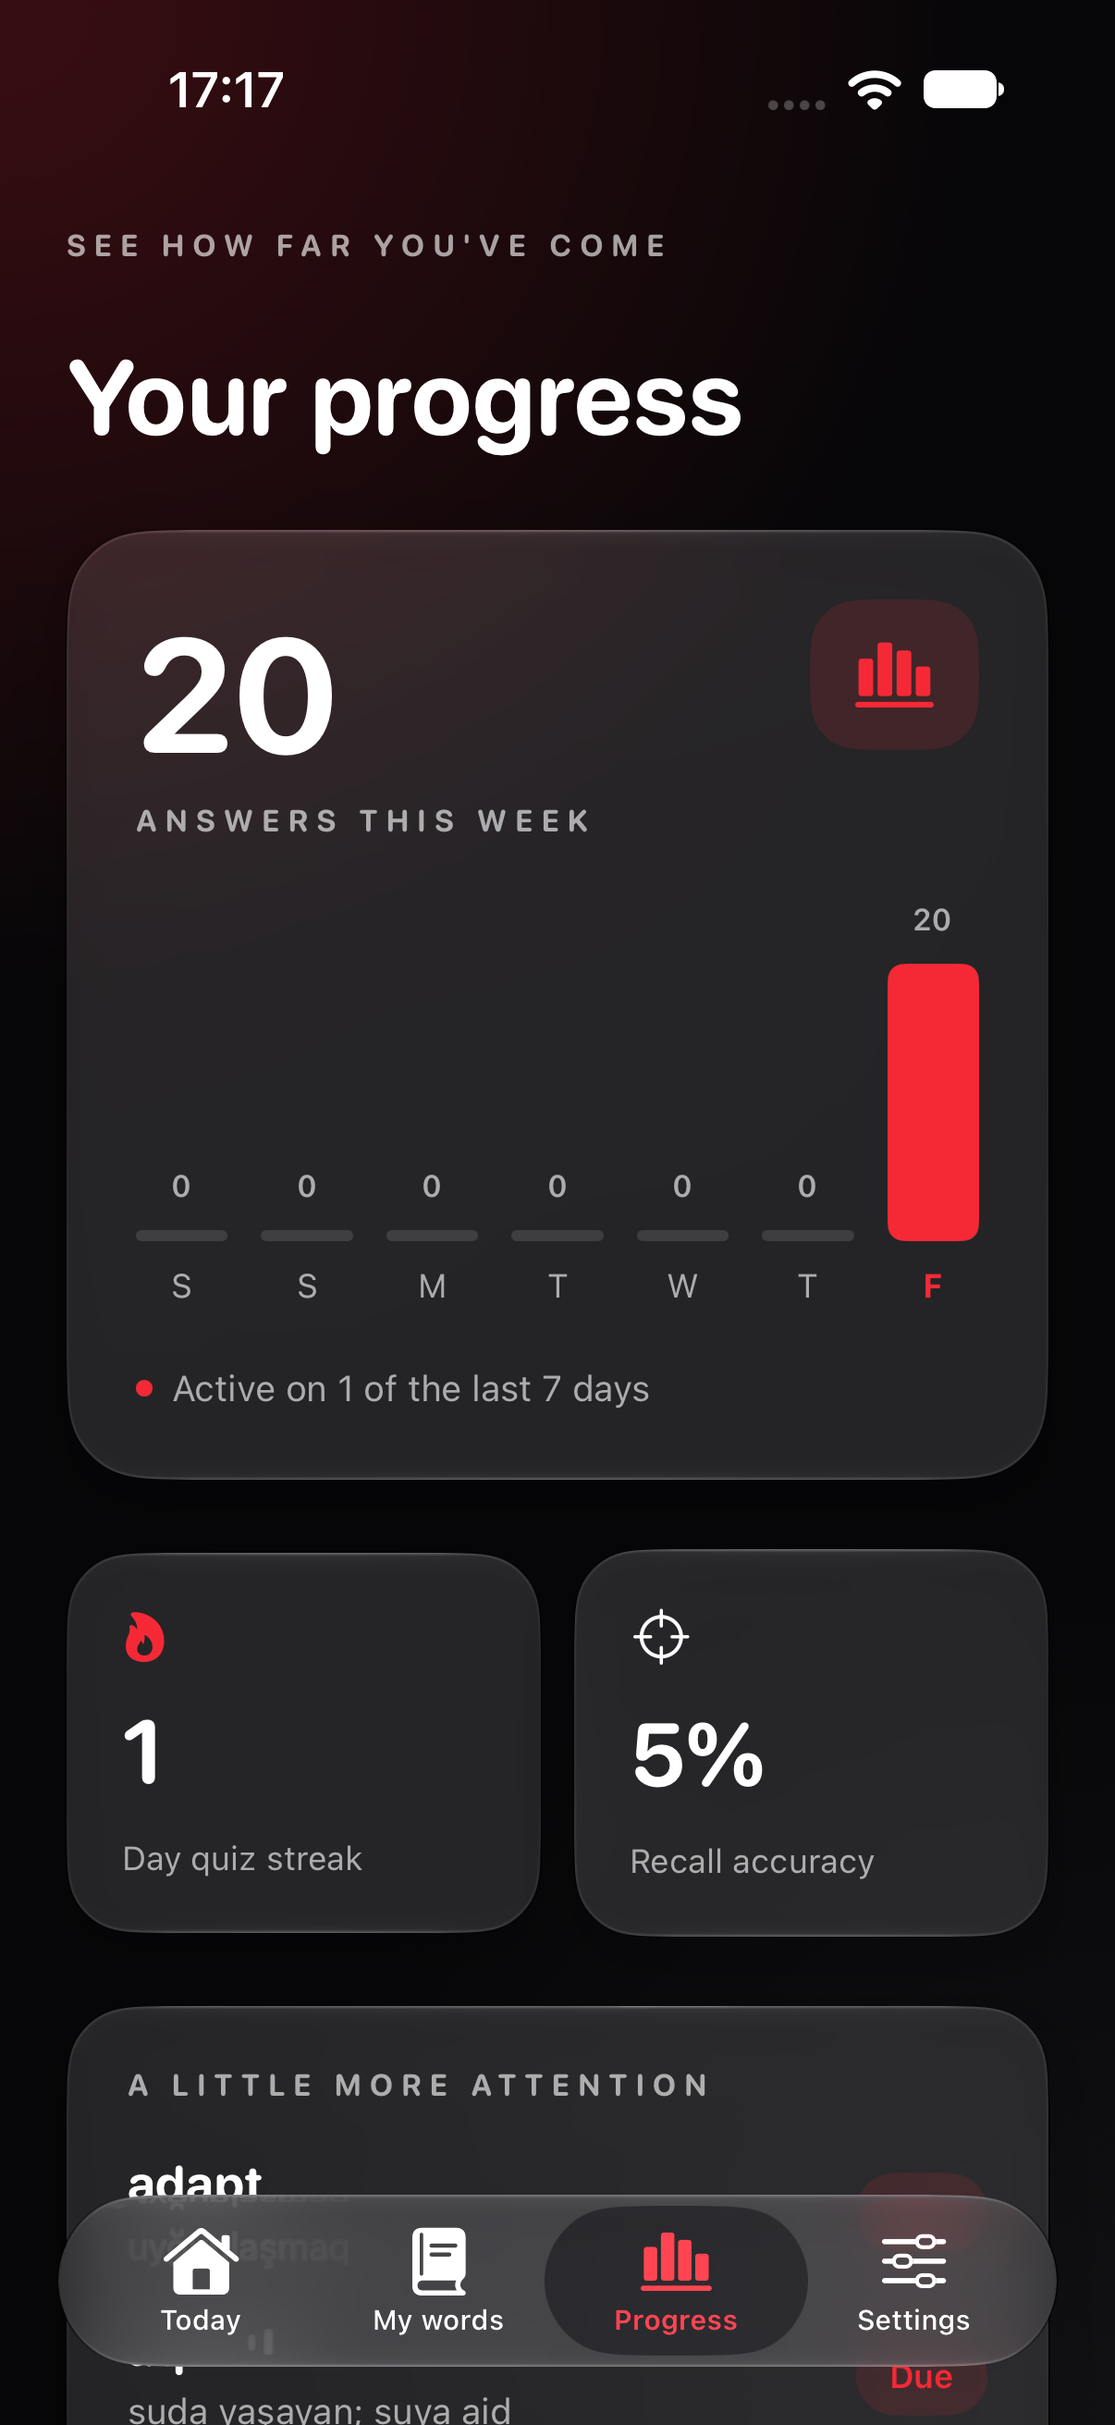
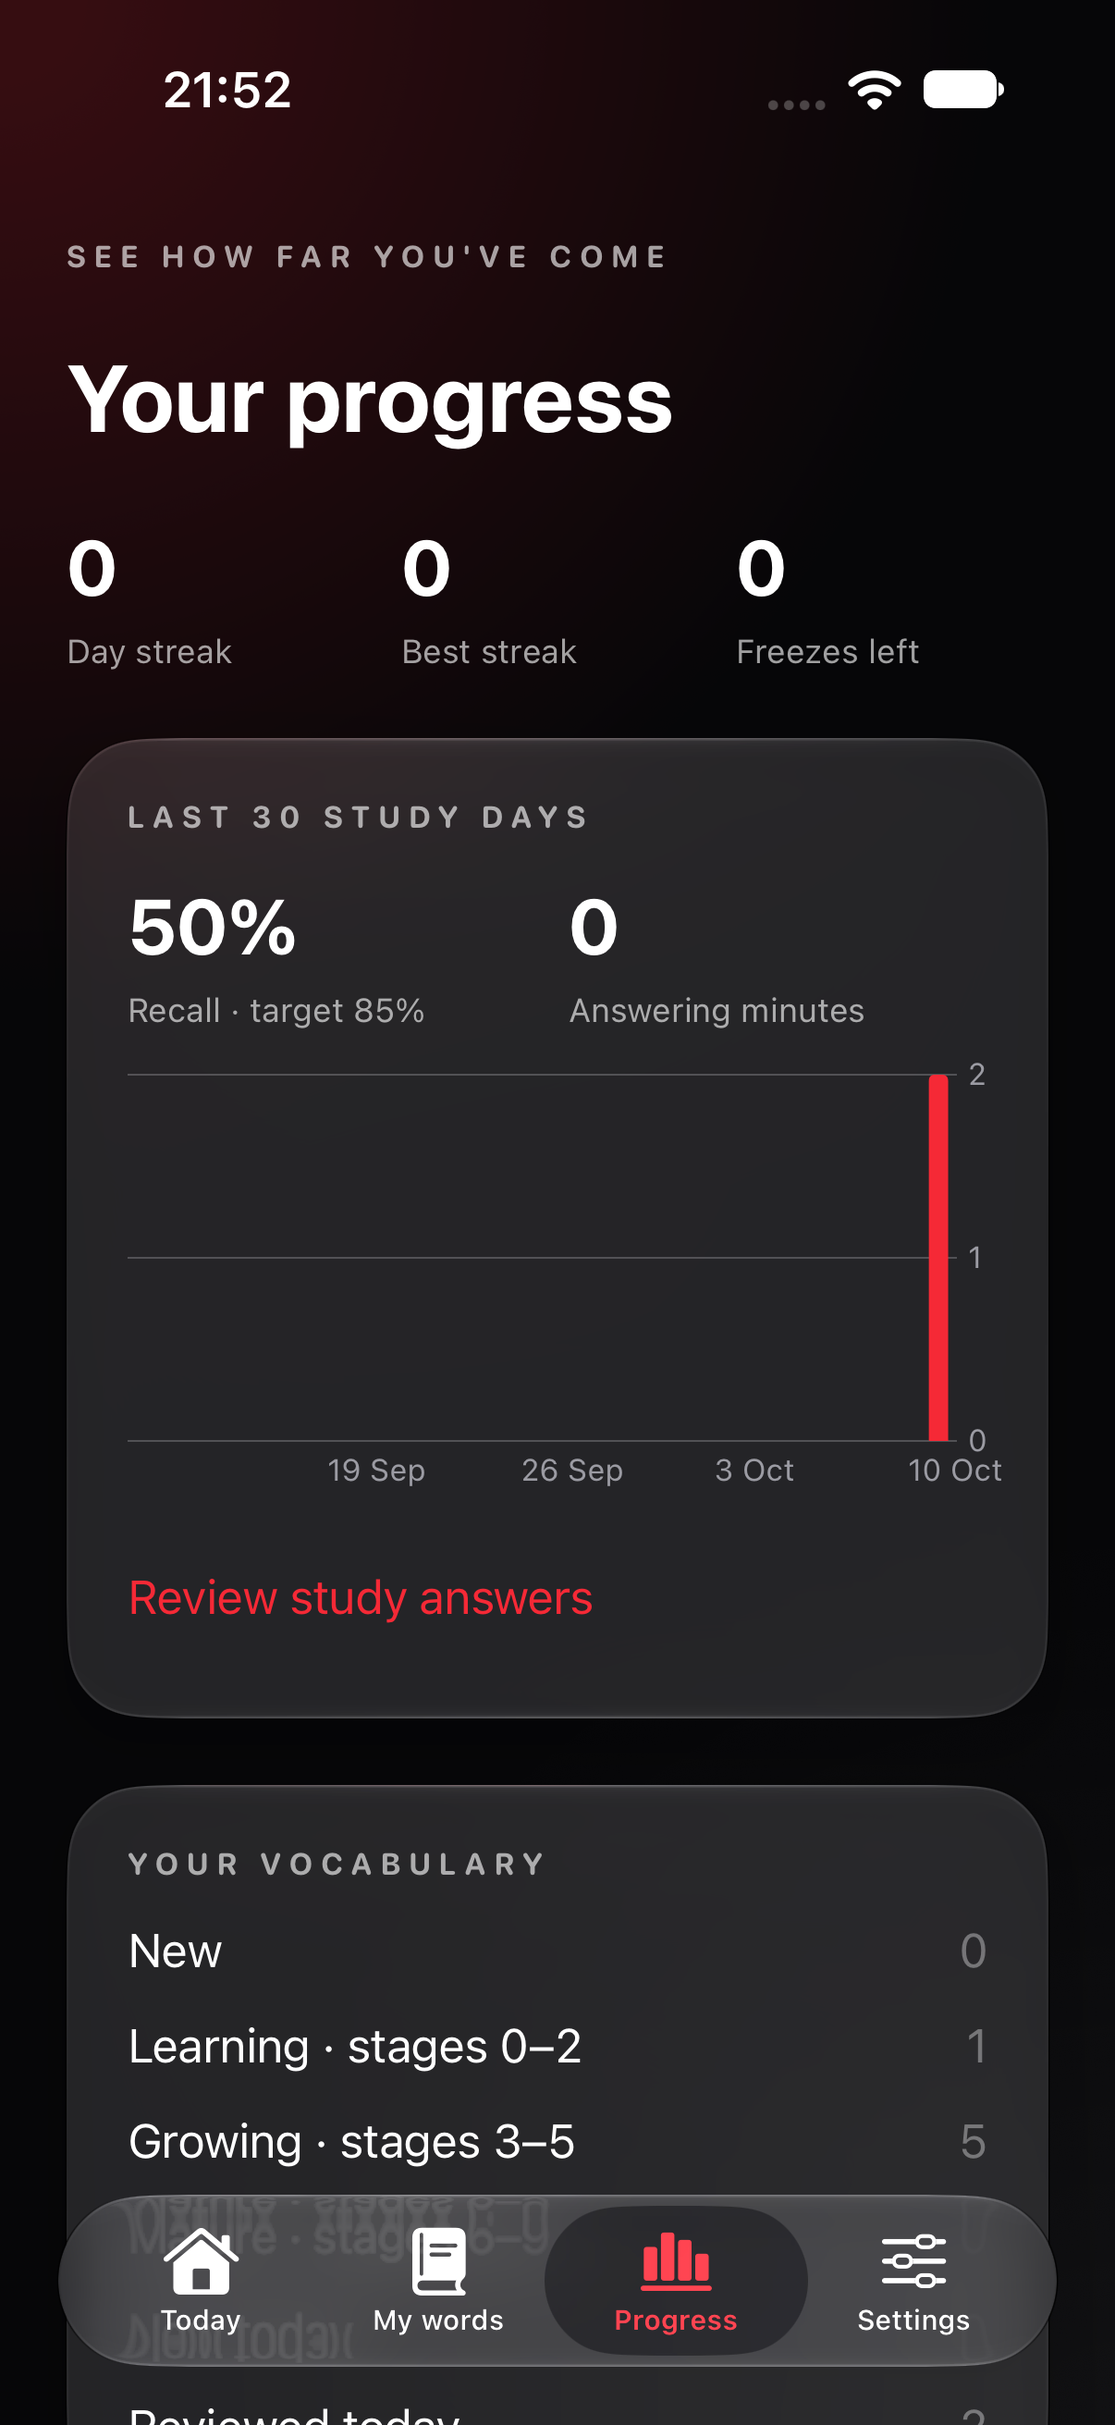
Document version 2.0 with three essential screenshots

diff --git a/WordRevisit/README.md b/WordRevisit/README.md
@@ -1,59 +1,96 @@
 # WordRevisit
 
-An offline iPhone vocabulary app for practising English and Azerbaijani with short, focused quizzes. The first launch contains 59 English words and their Azerbaijani translations. Words, results, and reminder settings stay on the device.
-
-Current version: **1.2.0**. Add your own example sentences, review every answer, retry missed words, and follow your progress with spaced reviews. Existing words and quiz history are preserved when updating the same installation.
+A native, offline iPhone app for learning English with Azerbaijani translations. **Version 2.0.0**, iOS **18+**, SwiftUI. No account, advertisements, analytics, backend, or network calls. The first installation includes the original 59-word collection.
 
 ## Screenshots
 
-Captured from version 1.2.0 running in the iPhone 18 Pro simulator on iOS 27, using demo learning data. The interface uses Liquid Glass on iOS 26 and later, with a native material fallback on earlier supported releases.
+Version 2.0 running in an iOS 27 simulator with isolated demonstration data. The black, white, and red interface uses Liquid Glass on iOS 26+ and native materials on iOS 18–25.
 
-| Today | My words | Quiz | Settings |
-|:---:|:---:|:---:|:---:|
-| ![Today screen](docs/screenshots/today.png) | ![Word library](docs/screenshots/words.png) | ![Easy quiz](docs/screenshots/quiz.png) | ![Reminder settings](docs/screenshots/settings.png) |
+| Today's plan | Recall and feedback | Progress |
+|:---:|:---:|:---:|
+| ![Daily learning plan](docs/screenshots/today.png) | ![Written recall feedback](docs/screenshots/study.png) | ![Learning statistics](docs/screenshots/progress.png) |
 
-| Hard recall with examples | Results and retry | Answer review | Progress |
-|:---:|:---:|:---:|:---:|
-| ![Hard quiz with a personal example sentence](docs/screenshots/quiz-hard.png) | ![Quiz results and retry button](docs/screenshots/results.png) | ![Saved answer review](docs/screenshots/answer-review.png) | ![Weekly learning progress](docs/screenshots/progress.png) |
+## Start here
 
-## Features
+1. Open **My words** to add or edit words. Each word can have a definition, examples, part of speech, synonym group, memory hook, and your own sentence.
+2. Use **Import CSV** or **Manage words → Paste words**, review the counts, and confirm the import.
+3. Tap **Start today's plan**. Meet new words, recall them after short gaps, then complete their mini-test. Close at any point and use **Continue saved session** later.
+4. Use **Progress** to review saved answers and difficult words.
+5. Export a full JSON backup from **Settings → Backup & restore** before removing the app or changing its bundle identifier.
 
-- **Easy recall:** English word → type its Azerbaijani translation.
-- **Hard recall:** Azerbaijani translation → type the English word.
-- Azerbaijani answers work with or without Azerbaijani keyboard characters.
-- Up to 20 new or due words per quiz, with difficult words selected first. The question list stays fixed throughout a quiz.
-- Spaced reviews after 1, 3, 7, 14, and 30 days of successful recall.
-- A results review shows each question, your answer, and accepted translations. Reopen saved reviews from Progress.
-- Retry just the words you missed, without changing your first score or review dates.
-- Progress includes a seven-day activity chart, quiz streak, accuracy, difficult words, and recent quizzes.
-- Add, edit, delete, and search words. Optional definitions appear after a quiz answer.
-- Write your own example sentences in the word editor. They appear as visible hints in both quiz modes and are never graded.
-- Import and export words and examples as CSV. A semicolon separates accepted alternative translations.
-- Two optional local notifications each day, with times chosen in Settings. No server or account is needed.
-- An optional Xcode renewal reminder six days after you mark an install in Settings.
-- Light, Dark, and Tinted Home Screen icon variants on iOS 18 and later.
-- A centered logo appears during the system launch screen; iOS controls how long it remains visible.
+## Daily learning
 
-## Your learning routine
+- The default target is **20 new words**, in **two batches of 10**, alongside due reviews. Choose one, two, or four batches.
+- New words follow collection/import order. Words sharing a synonym group or an Azerbaijani meaning are introduced on different study days.
+- Due reviews prioritise the oldest due date and then the lowest stage. Equal-priority cards are shuffled. Free quizzes also shuffle ties instead of using alphabetical order.
+- Every question keeps its identity and expected answer until you explicitly continue. Duplicate Enter/button submissions are ignored.
+- At the start of a study day, over 100 due reviews halves the new-word allowance; over 150 pauses it. Paused intake resumes below 100. The daily review limit is 200 distinct words; extra reviews remain due.
+- After at least two missed days, the comeback day has no new words and at most 40 reviews.
+- A study day starts at **04:00 local time**. Saved answers retain their study-day key when the device's time zone changes.
+- The daily minimum is **15 distinct words practised**, or the entire available queue when smaller. Mistakes count as practice; repeating one word does not inflate the minimum. Completing all scheduled words finishes the full plan.
+- Each seven consecutive completed study days earns a streak freeze, with up to two saved. A freeze covers a missed day automatically; the best streak remains recorded.
+- The plan's daily limits are fixed for that study day. Changes to those limits apply to the next day; adding or deleting vocabulary updates the remaining available work.
 
-Open **My words**, choose a word, and fill in **Example sentences**. You can write several sentences on separate lines. In Easy recall you still answer with the Azerbaijani translation; in Hard recall you answer with the English word. Examples are visible in both directions, even if a sentence contains the answer.
+### New words and review stages
 
-After a quiz, **Review my answers** shows the original answers. **Retry missed words** starts a shorter round containing only mistakes; you can repeat it if needed. The original result is saved once, and retries do not inflate your accuracy or advance the word's review schedule.
+An introduction shows the word, translations, definition and examples. Add an optional memory hook, learn the word, mark it already known, or leave it for tomorrow. Already-known words enter stage 5. Learning steps default to **1 minute**, then **10 minutes**, followed by a mini-test. A waiting session is saved and can be closed; reminders can announce its next ready card.
 
-A correct scheduled answer moves the next review out by 1, 3, 7, 14, then 30 calendar days. A wrong answer resets the interval and makes the word due again. Easy and Hard share the same word schedule. When no words are due, quizzes become **extra practice**: answers still count in a completed quiz, but review dates stay unchanged.
+| Stage | Review interval |
+|---|---|
+| 1–3 | 1, 2, 4 days |
+| 4–6 | 8, 16, 30 days |
+| 7–9 | 60, 120, 180 days |
 
-The Progress chart covers the last seven local calendar days. Streaks count consecutive days with a completed quiz; yesterday's streak stays active until today ends. Incomplete quizzes update word practice and review dates, but only completed quizzes appear in activity totals and accuracy. Older quiz scores remain visible, while detailed answer reviews are available for quizzes completed in 1.2.0 or later.
+Correct, unassisted, timely recall advances a stage. A correct answer with a hint, a single spelling error in a word of at least five letters, or a longer response is **Hard** and keeps the stage. Default response thresholds are 5 seconds for choices and 12 seconds for typing; these are adjustable.
 
-## CSV format
+A wrong answer or **I don't know** drops two stages, with a minimum of stage 1. It returns after 3–5 other cards where enough cards are available, needs two correct recovery answers, and is then due tomorrow. Longer intervals receive a configurable ±10% spread. Very overdue words receive an easier question tier.
 
-CSV is a plain-text table that you can also edit in a spreadsheet app:
+After four mistakes a word is labelled difficult and the feedback offers a memory hook. At most 15 difficult words stay active; excess words pause for seven days. You can also pause or resume any word manually.
+
+### Questions and synonyms
+
+Early stages use English/Azerbaijani choices; later stages add definitions, cloze sentences, and written recall. Definitions and cloze questions are only used when the necessary content exists. Cloze blanks whole-word occurrences in your example sentence. If four unambiguous options cannot be built, the question uses written recall instead. Distractors exclude words with shared meanings or the same synonym group, and respect part of speech when supplied.
+
+Assign matching **Synonym group** names to related words. **Practise synonyms** becomes useful when at least two words in a group reach stage 3 and three distinct distractors are available. It asks you to select the matching synonym; it does not invent contextual distinctions from a plain list. Synonym practice leaves review dates and daily minimums unchanged.
+
+Daily questions show examples through **Show sentence hint**, then show examples, definitions and memory hooks after answering. Your own sentence can be saved and shared from the editor. There is no automatic sentence grading or pronunciation feature.
+
+**Easy recall** (English → Azerbaijani) and **Hard recall** (Azerbaijani → English) remain available as free practice. Their example hints stay visible, results can be reviewed, and missed words can be retried. Free practice does not change daily review stages or dates. Its quiz history is kept separately; resumable sessions apply to the daily plan and synonym practice.
+
+## Manage words and import
+
+Use **Manage words → Select words**, tap individual rows, or choose **Select visible**, then confirm deletion. **Delete all words** is a separate confirmed action. Deleting words removes their schedules and pending cards, while retaining past answer history. Search includes English, Azerbaijani and group names; filters cover new, learning, review, difficult, paused and synonym entries.
+
+CSV is a UTF-8 plain-text table:
 
 ```csv
-English,Azerbaijani,Definition,Examples
-fell,ağacı kəsmək; ağac kəsmək,To cut down a tree.,They fell old trees.
+English,Azerbaijani,Definition,Examples,PartOfSpeech,Group,Mnemonic,MySentence
+large,böyük,Of considerable size.,A large forest.,adjective,size,,
+huge,iri; böyük,Extremely large.,A huge tree.,adjective,size,,
 ```
 
-The first two columns are required. Definition and Examples are optional; old two- and three-column files still work. Quotes, commas, and multiple lines in examples are supported by export/import. CSV exports vocabulary, including examples, but not quiz history or review dates. Import adds new word/translation pairs; it does not overwrite existing entries.
+English and Azerbaijani are required. The remaining columns are optional, in the order shown. Old two-, three-, and four-column files still work; empty definitions, quoted commas, escaped quotes and multiline examples are supported. A semicolon separates accepted meanings.
+
+The preview reports new entries, merged entries, skipped duplicates and invalid rows. Identical word/meaning pairs are skipped. For the same word with a different translation, choose **merge**, **keep separate**, or **skip**. Merging retains existing review progress. Invalid rows are reported and skipped after confirmation; an unfinished quoted field stops the preview.
+
+For quick paste, use one pair per line:
+
+```text
+forest - meşə
+water - su
+```
+
+CSV carries vocabulary and notes only. **JSON backup** also carries stages, dates, history, settings and the saved session. Restore validates the file before replacing data, asks for confirmation and keeps a local copy of the previous file. Files larger than 64 MB, unsupported schemas and malformed learning data are rejected. An optional backup reminder defaults to every seven days.
+
+## Notifications
+
+Daily reminders default to **09:00 and 20:30**. A 22:00 reminder is scheduled only when no study has started; the daily minimum cancels the remaining daily reminders. Quiet hours default to **23:00–07:00**. Tapping a study notification opens or resumes the session. The app refreshes a seven-day notification schedule on use. Notification delivery still follows the iPhone's permission and Focus settings.
+
+The separate **Xcode renewal** reminder is preserved. Backups and renewal are independent of the daily minimum.
+
+## Updating from 1.2
+
+Keep the same bundle identifier and installation. Existing words, examples and quiz histories are decoded with defaults for new fields; old due dates are preserved and old review streaks map to the new stages. Previous quiz days seed the streak history. The storage schema is version 2, writes are atomic, and an unreadable existing file is left untouched rather than overwritten with starter words.
 
 ## Run on an iPhone without the App Store
 
@@ -72,26 +109,32 @@ The free Personal Team profile expires after **7 days**. Run the project from Xc
 
 For a heads-up, turn on **Xcode renewal** in Settings. The app sends one local notification six days after the date you enable it or tap **I reinstalled from Xcode**. Tap that button after each successful reinstall. The reminder is an estimate because the app does not inspect your provisioning profile; it cannot renew the install for you.
 
-## Code map
+## Code map and checks
 
 ```text
 Sources/
-├── Models/      Word data, quiz sessions, answer history, and progress calculations
-├── Data/        Local JSON persistence and quiz history
-├── Services/    Review scheduling, quiz selection, CSV, and local notifications
-└── Views/       SwiftUI screens and visual style
+├── Models/      Codable words, learning settings, days, sessions and review logs
+├── Services/    Learning engine, calendar rules, import preview, CSV and reminders
+├── Data/        Atomic persistence, migration, backup and session transactions
+└── Views/       SwiftUI screens and shared visual components
 ```
 
-The project uses SwiftUI, Foundation, and UserNotifications. There are no external packages, accounts, or cloud services. To run the small logic check on a Mac:
+There are no third-party dependencies. Run these commands from `WordRevisit/` on a Mac with Xcode selected:
 
 ```bash
 swiftc Sources/Models/*.swift Sources/Services/*.swift Tests/LogicChecks.swift -o /tmp/WordRevisitLogicChecks
 /tmp/WordRevisitLogicChecks
 swiftc Sources/Models/*.swift Sources/Services/*.swift Sources/Data/WordRepository.swift Tests/RepositoryChecks.swift -o /tmp/WordRevisitRepositoryChecks
 /tmp/WordRevisitRepositoryChecks
+swiftc Sources/Models/*.swift Sources/Services/*.swift Sources/Data/WordRepository.swift Tests/LearningChecks.swift -o /tmp/WordRevisitLearningChecks
+/tmp/WordRevisitLearningChecks
 ```
 
-The checks cover legacy JSON/CSV, sentence round trips, review intervals, day boundaries, duplicate submissions, missed-word retries, and persistence. In Xcode, select an iPhone simulator and choose **Product → Test** (`⌘U`) to run the quiz UI regression. UI tests use a separate temporary data file in Debug builds, leaving your normal vocabulary untouched.
+Choose an iPhone simulator and **Product → Test** (`⌘U`) for UI checks: bulk delete and paste preview, daily answer identity and relaunch recovery, shuffled free quizzes and retries, and synonym practice. Debug tests use an isolated temporary store. Logic checks cover 298-row CSV import, legacy migration, intervals, learning steps, load protection, comeback, spelling tolerance, group separation, streak freezes, notification plans, invalid backup rejection and full restore. A 5,000-word load/plan check prints its measured time; device startup performance should be measured on the target iPhone.
+
+## Agreed release scope
+
+2.0 delivers the daily learning workflow, data management, backup, local reminders and basic synonym practice. XP, boss/speed games, achievements, widgets, FSRS, a 30-day workload forecast and context-sensitive synonym questions are reserved for later releases. Pronunciation and listening questions are intentionally excluded. No unfinished feature buttons are shown.
 
 ## License
 

diff --git a/README.md b/README.md
@@ -17,17 +17,12 @@ Three independent applications in one repository: two ASP.NET Core web apps and 
 
 ### WordRevisit
 
-Version **1.2.0** adds spaced reviews, personal example sentences, missed-word retry rounds, answer reviews, and a weekly progress screen. Vocabulary and learning history stay on the iPhone.
+Version **2.0.0** adds a daily learning plan, resumable sessions, staged reviews, synonym practice, bulk word management, and full backups. Vocabulary and learning history stay on the iPhone.
 
 <p align="center">
-  <img src="WordRevisit/docs/screenshots/today.png" alt="WordRevisit Today screen" width="205">
-  <img src="WordRevisit/docs/screenshots/words.png" alt="WordRevisit word library" width="205">
-  <img src="WordRevisit/docs/screenshots/quiz.png" alt="WordRevisit quiz" width="205">
-</p>
-
-<p align="center">
-  <img src="WordRevisit/docs/screenshots/answer-review.png" alt="WordRevisit answer review" width="205">
-  <img src="WordRevisit/docs/screenshots/progress.png" alt="WordRevisit weekly learning progress" width="205">
+  <img src="WordRevisit/docs/screenshots/today.png" alt="WordRevisit daily plan" width="205">
+  <img src="WordRevisit/docs/screenshots/study.png" alt="WordRevisit recall and feedback" width="205">
+  <img src="WordRevisit/docs/screenshots/progress.png" alt="WordRevisit learning progress" width="205">
 </p>
 
 <p align="center"><a href="WordRevisit/README.md">Features, iPhone setup, and all screenshots →</a></p>
